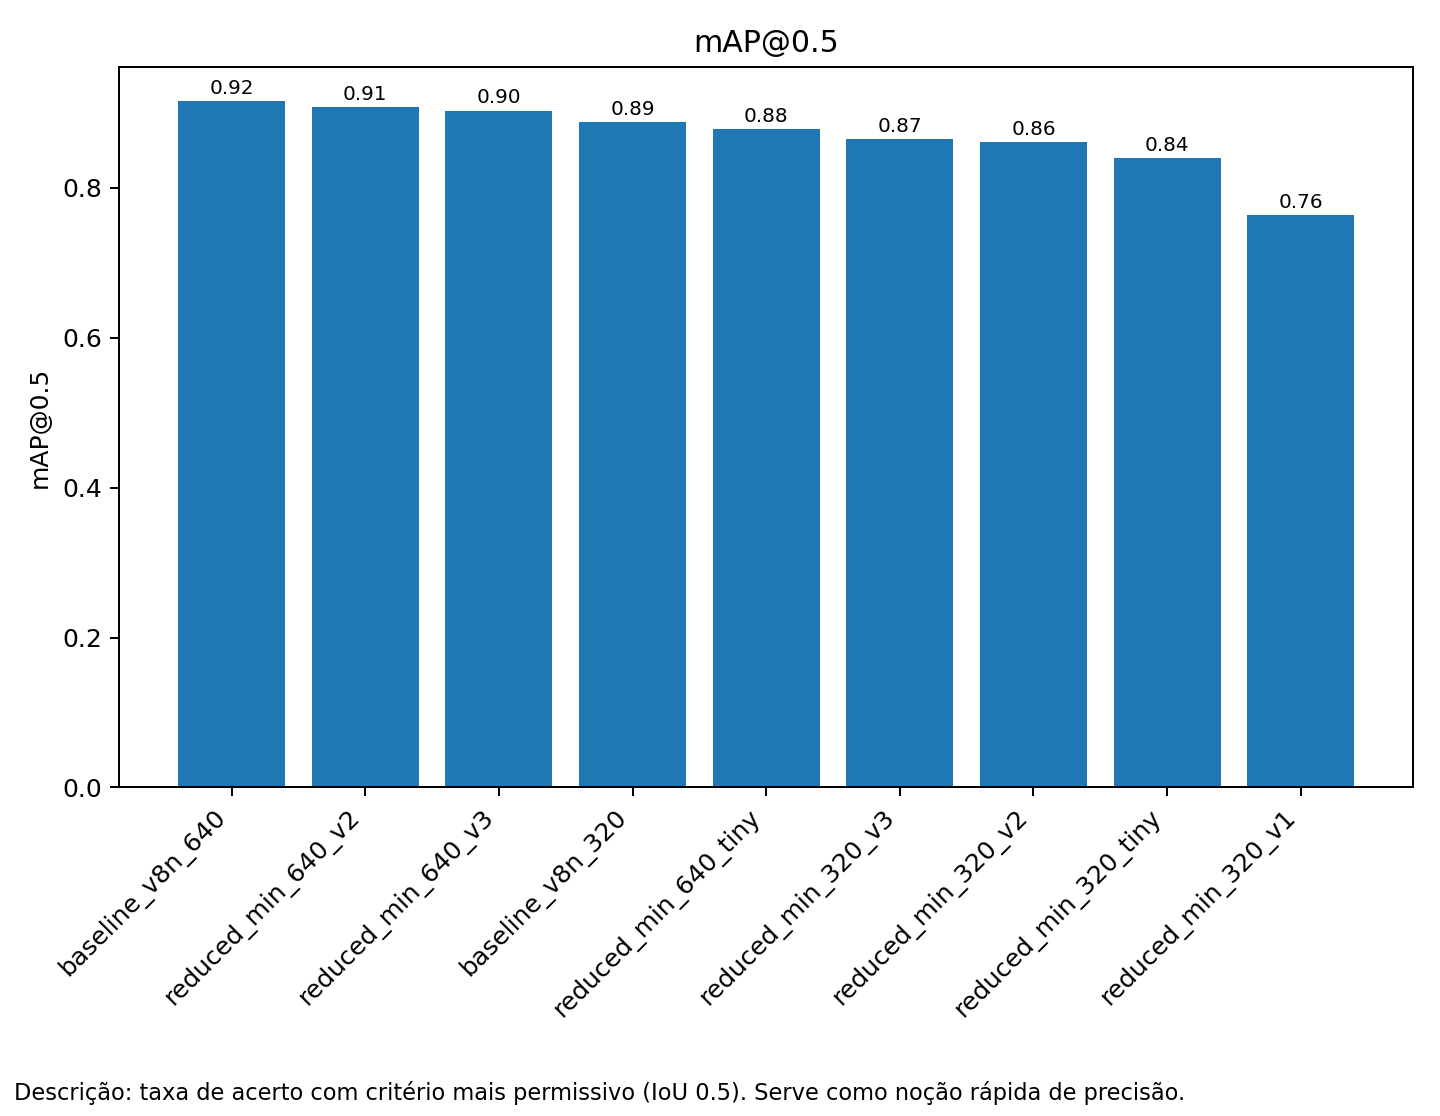
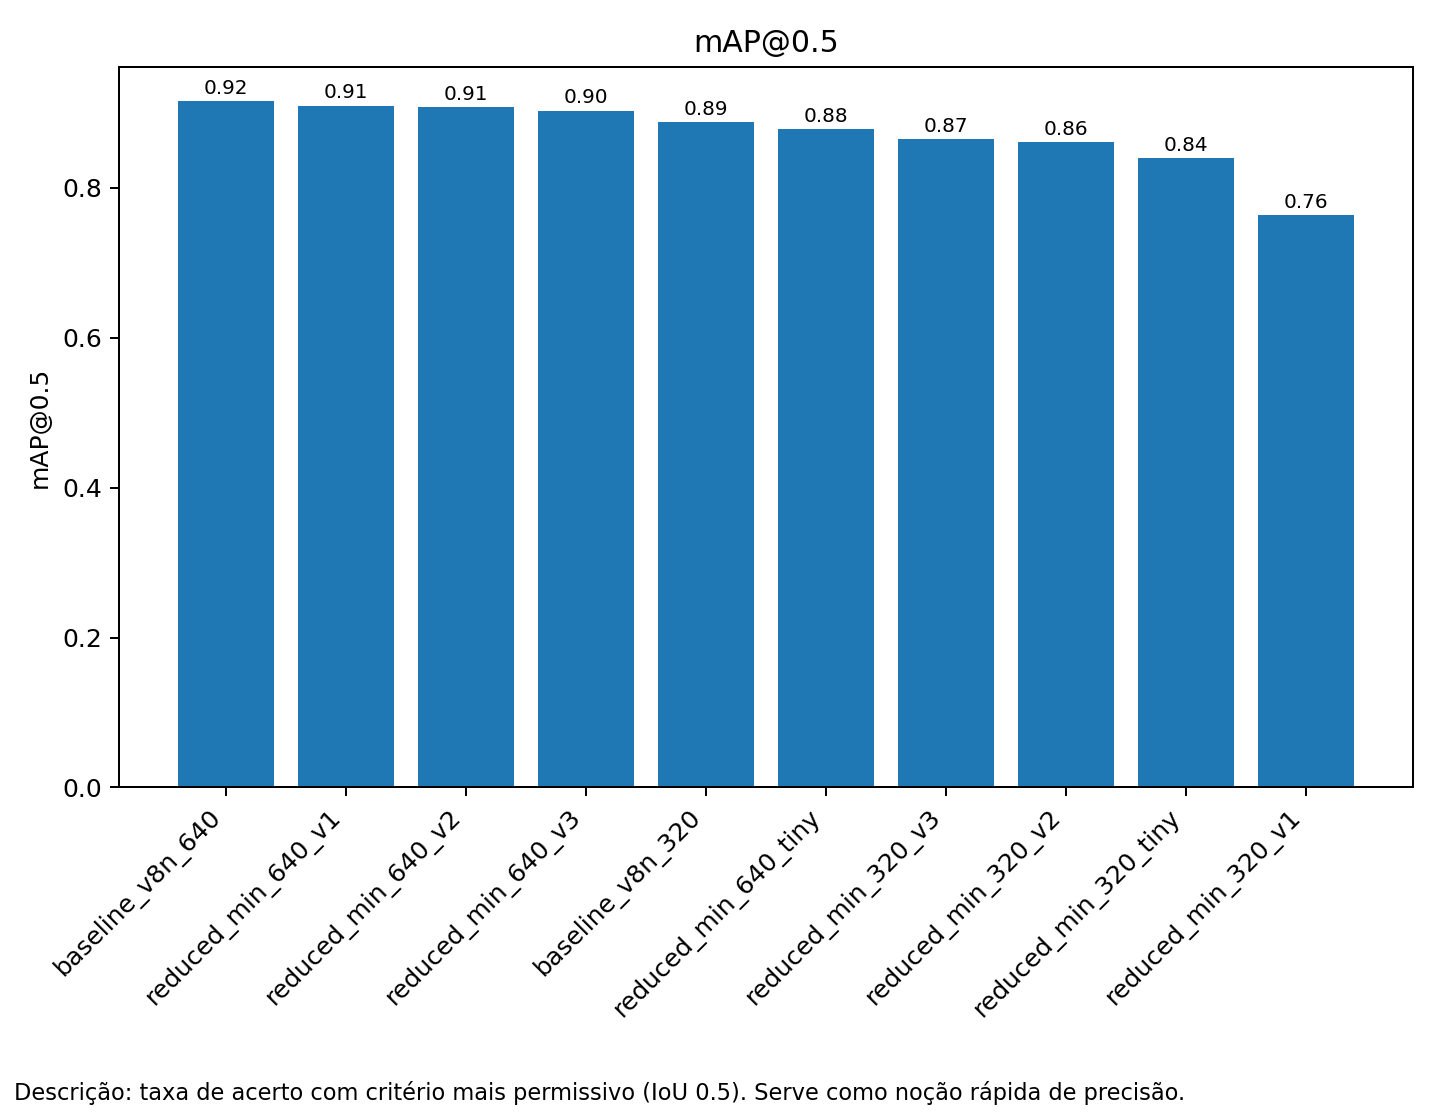
feat: summarize

diff --git a/reports/model_report.md b/reports/model_report.md
@@ -2,12 +2,13 @@
 
 | Kind   | Run                             | Stage        | Model                            |   ImgSize |   Epochs |   Batch | File                                            |   Size (MB) |   mAP@0.5 |   mAP@0.5:0.95 |   Train Time (min) |   Params (M) |   FLOPs (G) |   Latency (ms) |
 |:-------|:--------------------------------|:-------------|:---------------------------------|----------:|---------:|--------:|:------------------------------------------------|------------:|----------:|---------------:|-------------------:|-------------:|------------:|---------------:|
-| run    | runs_train\reduced_min_320_tiny | reduced_arch | models\reduced_min_320_tiny.yaml |       320 |      200 |      32 | runs_train\reduced_min_320_tiny\weights\best.pt |       0.735 |    0.8397 |         0.5183 |              190.3 |       0.3029 |      0.2154 |          4.496 |
-| run    | runs_train\reduced_min_640_tiny | reduced_arch | models/reduced_min_640_tiny.yaml |       640 |      150 |      16 | runs_train\reduced_min_640_tiny\weights\best.pt |       0.766 |    0.8787 |         0.5617 |                0   |       0.3029 |      0.2154 |          4.62  |
-| run    | runs_train\reduced_min_320_v3   | reduced_arch | models\reduced_min_320_v3.yaml   |       320 |      150 |      32 | runs_train\reduced_min_320_v3\weights\best.pt   |       2.126 |    0.8651 |         0.5477 |              214.6 |       1.0207 |      0.4562 |          6.948 |
-| run    | runs_train\reduced_min_640_v3   | reduced_arch | models\reduced_min_640_v3.yaml   |       640 |      150 |      16 | runs_train\reduced_min_640_v3\weights\best.pt   |       2.164 |    0.903  |         0.5963 |              723.4 |       1.0207 |      0.4562 |          6.134 |
-| run    | runs_train\reduced_min_320_v2   | reduced_arch | models\reduced_min_320_v2.yaml   |       320 |      100 |      32 | runs_train\reduced_min_320_v2\weights\best.pt   |       3.109 |    0.861  |         0.5402 |              928.7 |       1.5387 |      0.5748 |          6.702 |
-| run    | runs_train\reduced_min_640_v2   | reduced_arch | models\reduced_min_640_v2.yaml   |       640 |      150 |      16 | runs_train\reduced_min_640_v2\weights\best.pt   |       3.154 |    0.9078 |         0.6026 |                0   |       1.5387 |      0.5748 |          6.136 |
-| run    | runs_train\reduced_min_320_v1   | reduced_arch | models\reduced_min_320_v1.yaml   |       320 |       10 |      16 | runs_train\reduced_min_320_v1\weights\best.pt   |       3.603 |    0.7638 |         0.4493 |              997.9 |       1.7992 |      0.6469 |          6.984 |
-| run    | runs_train\baseline_v8n_320     |              | models\baseline_v8n_320.yaml     |       320 |       60 |      16 | runs_train\baseline_v8n_320\weights\best.pt     |       5.923 |    0.8879 |         0.5803 |             1128.2 |       3.011  |      1.0243 |          6.578 |
-| run    | runs_train\baseline_v8n_640     | reduced_arch | models\baseline_v8n_640.yaml     |       640 |      150 |      16 | runs_train\baseline_v8n_640\weights\best.pt     |       5.971 |    0.9154 |         0.6157 |                0   |       3.011  |      1.0243 |          6.585 |
+| run    | runs_train\reduced_min_320_tiny | reduced_arch | models\reduced_min_320_tiny.yaml |       320 |      200 |      32 | runs_train\reduced_min_320_tiny\weights\best.pt |       0.735 |    0.8397 |         0.5183 |                0   |       0.3029 |      0.2154 |          9.377 |
+| run    | runs_train\reduced_min_640_tiny | reduced_arch | models/reduced_min_640_tiny.yaml |       640 |      150 |      16 | runs_train\reduced_min_640_tiny\weights\best.pt |       0.766 |    0.8787 |         0.5617 |                0   |       0.3029 |      0.2154 |          8.224 |
+| run    | runs_train\reduced_min_320_v3   | reduced_arch | models\reduced_min_320_v3.yaml   |       320 |      150 |      32 | runs_train\reduced_min_320_v3\weights\best.pt   |       2.126 |    0.8651 |         0.5477 |                0   |       1.0207 |      0.4562 |         10.805 |
+| run    | runs_train\reduced_min_640_v3   | reduced_arch | models\reduced_min_640_v3.yaml   |       640 |      150 |      16 | runs_train\reduced_min_640_v3\weights\best.pt   |       2.164 |    0.903  |         0.5963 |              384.7 |       1.0207 |      0.4562 |          9.669 |
+| run    | runs_train\reduced_min_320_v2   | reduced_arch | models\reduced_min_320_v2.yaml   |       320 |      100 |      32 | runs_train\reduced_min_320_v2\weights\best.pt   |       3.109 |    0.861  |         0.5402 |                0   |       1.5387 |      0.5748 |         11.359 |
+| run    | runs_train\reduced_min_640_v2   | reduced_arch | models\reduced_min_640_v2.yaml   |       640 |      150 |      16 | runs_train\reduced_min_640_v2\weights\best.pt   |       3.154 |    0.9078 |         0.6026 |              340.8 |       1.5387 |      0.5748 |         10.386 |
+| run    | runs_train\reduced_min_320_v1   | reduced_arch | models\reduced_min_320_v1.yaml   |       320 |       10 |      16 | runs_train\reduced_min_320_v1\weights\best.pt   |       3.603 |    0.7638 |         0.4493 |                0   |       1.7992 |      0.6469 |         11.305 |
+| run    | runs_train\reduced_min_640_v1   | reduced_arch | models\reduced_min_640_v1.yaml   |       640 |      150 |      16 | runs_train\reduced_min_640_v1\weights\best.pt   |       3.658 |    0.9101 |         0.6079 |              374.8 |       1.7992 |      0.6469 |         10.536 |
+| run    | runs_train\baseline_v8n_320     |              | models\baseline_v8n_320.yaml     |       320 |       60 |      16 | runs_train\baseline_v8n_320\weights\best.pt     |       5.923 |    0.8879 |         0.5803 |                0   |       3.011  |      1.0243 |         10.95  |
+| run    | runs_train\baseline_v8n_640     | reduced_arch | models\baseline_v8n_640.yaml     |       640 |      150 |      16 | runs_train\baseline_v8n_640\weights\best.pt     |       5.971 |    0.9154 |         0.6157 |              400.6 |       3.011  |      1.0243 |         11.583 |
